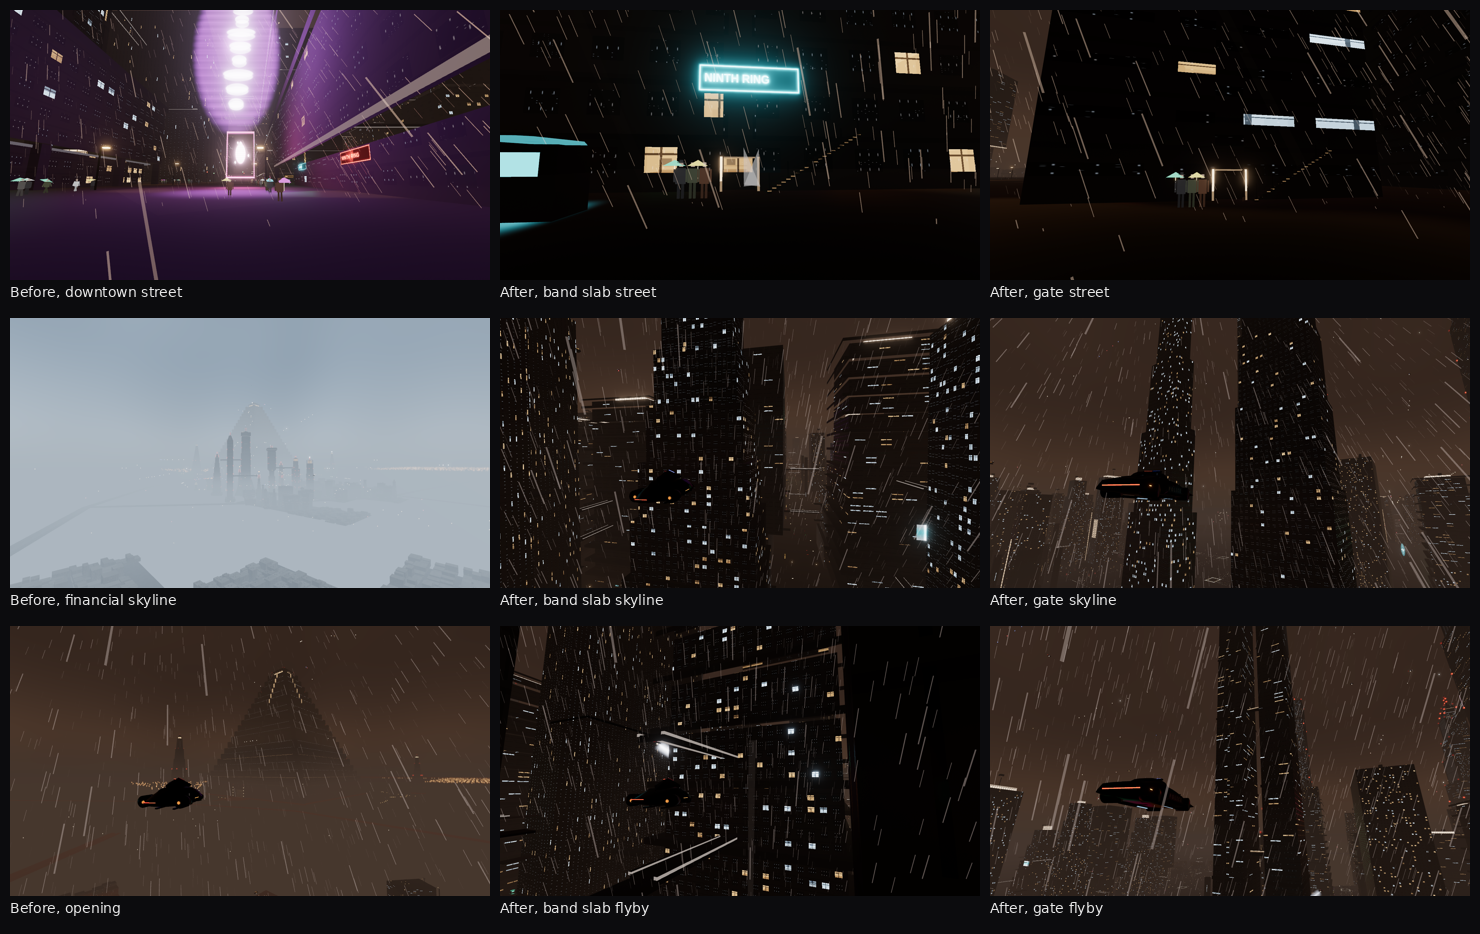
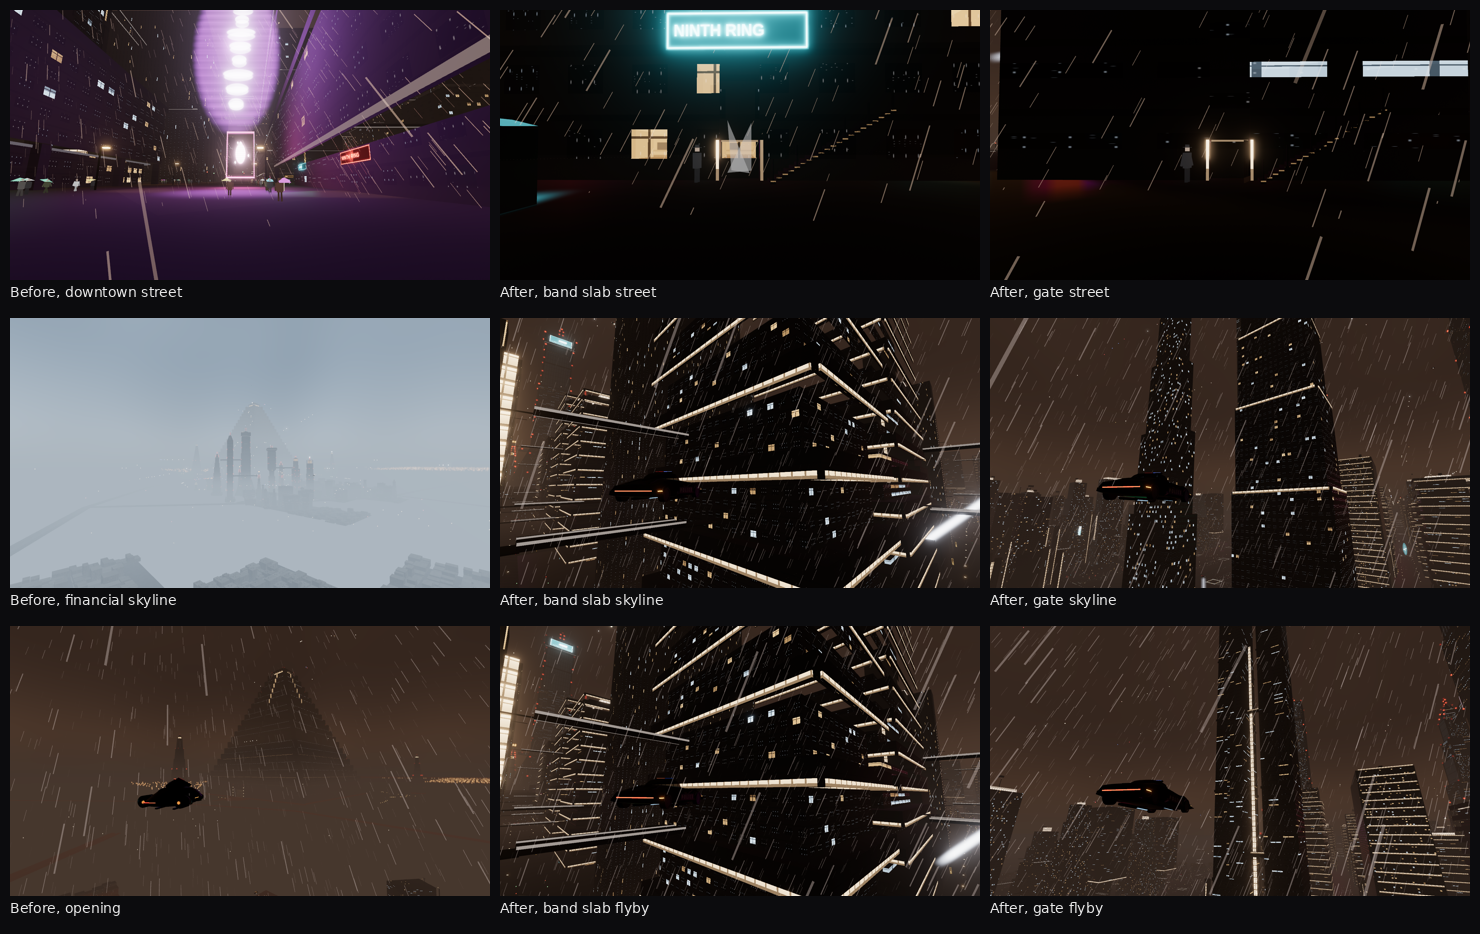
Refresh the night contact sheet with the banded slab and the lit gate.
The after cells use the reshot street, skyline, and flyby frames.

diff --git a/docs/buildings/b1-2026-10-11.html b/docs/buildings/b1-2026-10-11.html
@@ -75,7 +75,7 @@
   </table>
 
   <h2>Lights</h2>
-  <p>The lighting registry is still not on main after the rebase onto the ground-vehicle commit. Every glow on these towers is declared in <code>src/world/buildings/lights.ts</code> (<code>LIGHT_ADAPTER = 'b1-local'</code>): door soffit, door jambs, crown, obstruction tip, ad face, the gate-bridge edge, and the stair-edge line. The monolith slit sits on the street face, one storey above the door and in from the opening, so the dark taper reads at night. The holo shaft’s ad face is on that same street side. Band-slab belts are a storey and a half of dark stone with a short light lip on the street face and one side. Residential plates are deep shelves with the same short lip, not thin rails. The cantilever stem is under half the lot and the top hangs past it; a short lip marks the joint. The lantern keeps a cruciform plan: light caps at the four arm ends and two crossing lips, with no wide glow sheet. The gate carries a light column on each inner face of the slot. Each Caldera Step terrace has a short lip on the street face and the flyby side. The Caldera Step base uses the same megablock grid as the setbacks above it. The jambs sit just outside the 2.2 m opening so the doorway reads at night. A later lighting pass can map those roles without searching the recipes.</p>
+  <p>The lighting registry is still not on main after the rebase onto the ground-vehicle commit. Every glow on these towers is declared in <code>src/world/buildings/lights.ts</code> (<code>LIGHT_ADAPTER = 'b1-local'</code>): door soffit, door jambs, crown, obstruction tip, ad face, the gate-bridge edge, and the stair-edge line. The monolith slit sits on the street face, one storey above the door and in from the opening, so the dark taper reads at night. The holo shaft’s ad face is on that same street side. Band-slab belts are a storey and a half of dark stone with a short light lip on the street face and one side. Residential plates are deep shelves with the same short lip, not thin rails. The cantilever stem is under half the lot and the top hangs past it; a short lip marks the joint. The lantern keeps a cruciform plan: light caps at the four arm ends and a standing cross on the roof, with no wide glow sheet. The gate carries a light column on each inner face of the slot. Each Caldera Step terrace has a short lip on the street face and the flyby side. The Caldera Step base uses the same megablock grid as the setbacks above it. The jambs sit just outside the 2.2 m opening so the doorway reads at night. A later lighting pass can map those roles without searching the recipes.</p>
 
   <h2>Silhouette scores</h2>
   <p>Scored against original envelope diagrams (a slab, a step pyramid, a taper, a twin gate, a top-heavy bar). Not against film frames. Best side for each family:</p>
